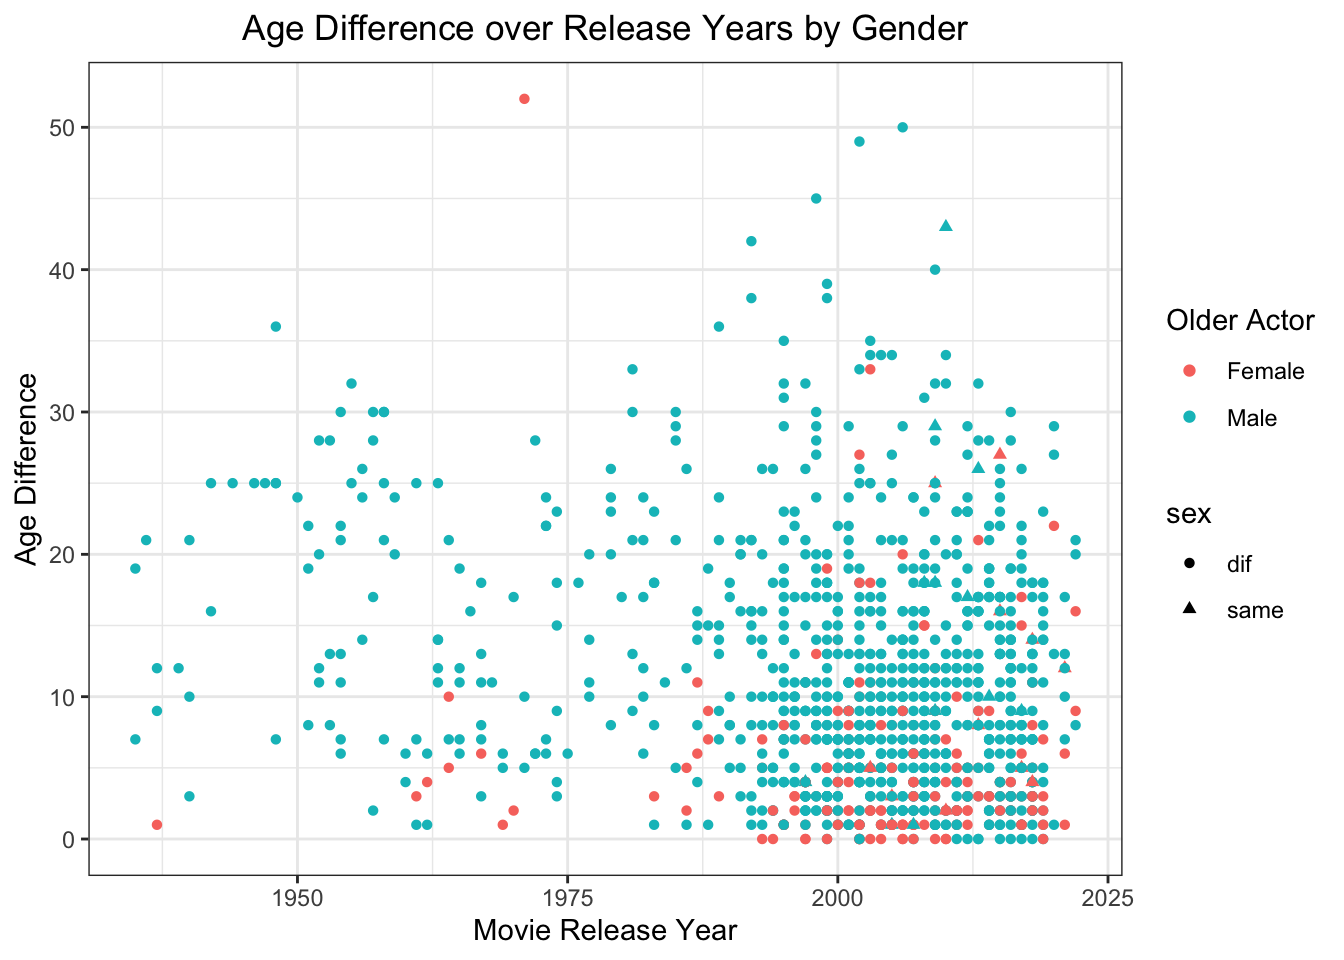
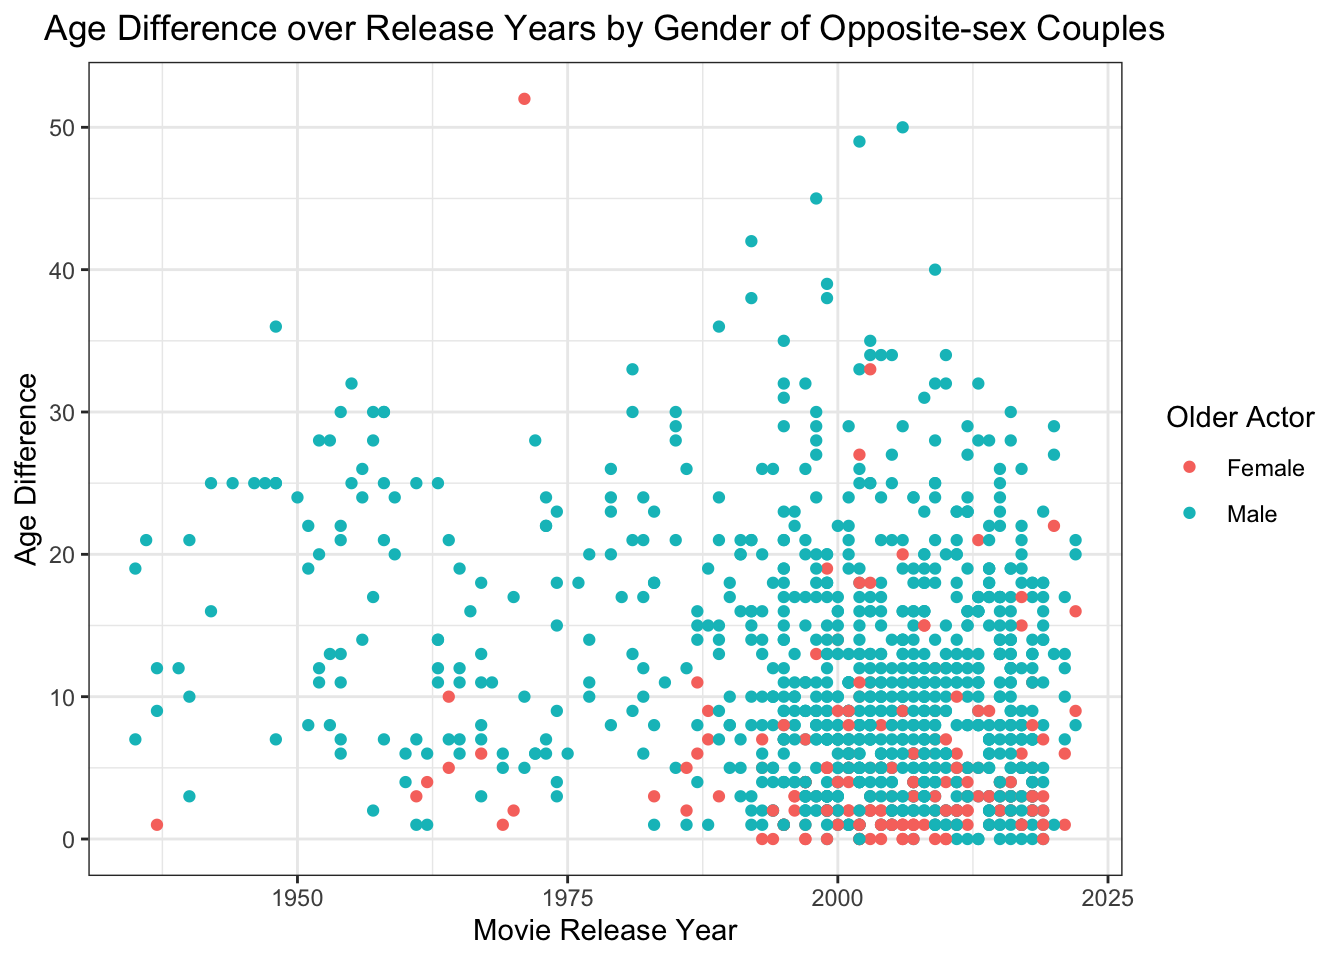
Working on tidyTues

diff --git a/docs/tidytuesday_exercise.html b/docs/tidytuesday_exercise.html
@@ -217,7 +217,8 @@ code span.wa { color: #60a0b0; font-weight: bold; font-style: italic; } /* Warni
 <div class="sourceCode cell-code" id="cb1"><pre class="sourceCode r code-with-copy"><code class="sourceCode r"><span id="cb1-1"><a href="#cb1-1" aria-hidden="true" tabindex="-1"></a><span class="fu">library</span>(tidyverse)</span>
 <span id="cb1-2"><a href="#cb1-2" aria-hidden="true" tabindex="-1"></a><span class="fu">library</span>(here)</span>
 <span id="cb1-3"><a href="#cb1-3" aria-hidden="true" tabindex="-1"></a><span class="fu">library</span>(tidytuesdayR)</span>
-<span id="cb1-4"><a href="#cb1-4" aria-hidden="true" tabindex="-1"></a><span class="fu">library</span>(lubridate)</span></code><button title="Copy to Clipboard" class="code-copy-button"><i class="bi"></i></button></pre></div>
+<span id="cb1-4"><a href="#cb1-4" aria-hidden="true" tabindex="-1"></a><span class="fu">library</span>(lubridate)</span>
+<span id="cb1-5"><a href="#cb1-5" aria-hidden="true" tabindex="-1"></a><span class="fu">library</span>(skimr)</span></code><button title="Copy to Clipboard" class="code-copy-button"><i class="bi"></i></button></pre></div>
 </div>
 </section>
 <section id="the-data" class="level2">
@@ -289,8 +290,8 @@ This dataset seems to be fairly clean, with consistent entries for each variable
 </section>
 <section id="analysis-ideas" class="level2">
 <h2 class="anchored" data-anchor-id="analysis-ideas">Analysis Ideas</h2>
-<section id="how-has-the-age-gap-changesd-over-the-years" class="level4">
-<h4 class="anchored" data-anchor-id="how-has-the-age-gap-changesd-over-the-years">1. How has the age gap changesd over the years?</h4>
+<section id="how-has-the-age-gap-changed-over-the-years" class="level4">
+<h4 class="anchored" data-anchor-id="how-has-the-age-gap-changed-over-the-years">1. How has the age gap changed over the years?</h4>
 </section>
 <section id="what-is-the-most-common-age-differnce" class="level4">
 <h4 class="anchored" data-anchor-id="what-is-the-most-common-age-differnce">2. What is the most common age differnce?</h4>
@@ -330,11 +331,20 @@ This dataset seems to be fairly clean, with consistent entries for each variable
 <span id="cb11-3"><a href="#cb11-3" aria-hidden="true" tabindex="-1"></a>  <span class="fu">geom_line</span>(</span>
 <span id="cb11-4"><a href="#cb11-4" aria-hidden="true" tabindex="-1"></a>    <span class="fu">aes</span>(</span>
 <span id="cb11-5"><a href="#cb11-5" aria-hidden="true" tabindex="-1"></a>      <span class="at">x =</span> release_year,</span>
-<span id="cb11-6"><a href="#cb11-6" aria-hidden="true" tabindex="-1"></a>      <span class="at">y =</span> age_difference))<span class="sc">+</span></span>
-<span id="cb11-7"><a href="#cb11-7" aria-hidden="true" tabindex="-1"></a>  <span class="fu">geom_point</span>(</span>
-<span id="cb11-8"><a href="#cb11-8" aria-hidden="true" tabindex="-1"></a>    <span class="fu">aes</span>(</span>
-<span id="cb11-9"><a href="#cb11-9" aria-hidden="true" tabindex="-1"></a>      <span class="at">x =</span> release_year,</span>
-<span id="cb11-10"><a href="#cb11-10" aria-hidden="true" tabindex="-1"></a>      <span class="at">y =</span> age_difference))</span></code><button title="Copy to Clipboard" class="code-copy-button"><i class="bi"></i></button></pre></div>
+<span id="cb11-6"><a href="#cb11-6" aria-hidden="true" tabindex="-1"></a>      <span class="at">y =</span> age_difference),</span>
+<span id="cb11-7"><a href="#cb11-7" aria-hidden="true" tabindex="-1"></a>    <span class="at">color =</span> <span class="st">"darkgreen"</span>)<span class="sc">+</span></span>
+<span id="cb11-8"><a href="#cb11-8" aria-hidden="true" tabindex="-1"></a>  <span class="fu">geom_point</span>(</span>
+<span id="cb11-9"><a href="#cb11-9" aria-hidden="true" tabindex="-1"></a>    <span class="fu">aes</span>(</span>
+<span id="cb11-10"><a href="#cb11-10" aria-hidden="true" tabindex="-1"></a>      <span class="at">x =</span> release_year,</span>
+<span id="cb11-11"><a href="#cb11-11" aria-hidden="true" tabindex="-1"></a>      <span class="at">y =</span> age_difference),</span>
+<span id="cb11-12"><a href="#cb11-12" aria-hidden="true" tabindex="-1"></a>    <span class="at">color =</span> <span class="st">"darkgreen"</span>)<span class="sc">+</span></span>
+<span id="cb11-13"><a href="#cb11-13" aria-hidden="true" tabindex="-1"></a>  <span class="fu">theme_bw</span>()<span class="sc">+</span></span>
+<span id="cb11-14"><a href="#cb11-14" aria-hidden="true" tabindex="-1"></a>  <span class="fu">labs</span>(</span>
+<span id="cb11-15"><a href="#cb11-15" aria-hidden="true" tabindex="-1"></a>    <span class="at">x =</span> <span class="st">"Release Year"</span>,</span>
+<span id="cb11-16"><a href="#cb11-16" aria-hidden="true" tabindex="-1"></a>    <span class="at">y =</span> <span class="st">"Age Gap"</span>,</span>
+<span id="cb11-17"><a href="#cb11-17" aria-hidden="true" tabindex="-1"></a>    <span class="at">title =</span> <span class="st">"Age gaps in movies from 1935-2022"</span>) <span class="sc">+</span></span>
+<span id="cb11-18"><a href="#cb11-18" aria-hidden="true" tabindex="-1"></a>  <span class="fu">theme</span>(</span>
+<span id="cb11-19"><a href="#cb11-19" aria-hidden="true" tabindex="-1"></a>    <span class="at">plot.title =</span> <span class="fu">element_text</span>(<span class="at">hjust =</span> <span class="fl">0.5</span>))</span></code><button title="Copy to Clipboard" class="code-copy-button"><i class="bi"></i></button></pre></div>
 <div class="cell-output-display">
 <p><img src="tidytuesday_exercise_files/figure-html/unnamed-chunk-6-1.png" class="img-fluid" width="672"></p>
 </div>
@@ -422,8 +432,8 @@ This dataset seems to be fairly clean, with consistent entries for each variable
 </div>
 <p>A few things to note here. (1) It looks like older female couples become more prevalent around the 1980s. (2) Despite a higher incidence of older female couples, the age gap is relatively lower than that of older male couples. (3) Some of the movies include same-sex couples, which can make this graph misleading. In the case where the couple is woman-woman, older female will show up regardless.</p>
 </section>
-<section id="make-new-columns-and-dataframes-for-same-and-opposute-sex-couples" class="level3">
-<h3 class="anchored" data-anchor-id="make-new-columns-and-dataframes-for-same-and-opposute-sex-couples">Make new columns and dataframes for same and opposute sex couples</h3>
+<section id="make-new-columns-and-dataframes-for-same-and-opposite-sex-couples" class="level3">
+<h3 class="anchored" data-anchor-id="make-new-columns-and-dataframes-for-same-and-opposite-sex-couples">Make new columns and dataframes for same and opposite sex couples</h3>
 <div class="cell">
 <div class="sourceCode cell-code" id="cb17"><pre class="sourceCode r code-with-copy"><code class="sourceCode r"><span id="cb17-1"><a href="#cb17-1" aria-hidden="true" tabindex="-1"></a>age_gaps3<span class="ot">&lt;-</span> age_gaps2 <span class="sc">%&gt;%</span></span>
 <span id="cb17-2"><a href="#cb17-2" aria-hidden="true" tabindex="-1"></a>  <span class="fu">mutate</span>(<span class="at">sex =</span> <span class="fu">case_when</span>(</span>
@@ -443,68 +453,106 @@ This dataset seems to be fairly clean, with consistent entries for each variable
 <span id="cb17-16"><a href="#cb17-16" aria-hidden="true" tabindex="-1"></a>age_opp<span class="ot">&lt;-</span> age_gaps3 <span class="sc">%&gt;%</span></span>
 <span id="cb17-17"><a href="#cb17-17" aria-hidden="true" tabindex="-1"></a>  <span class="fu">filter</span>(sex <span class="sc">%in%</span> <span class="st">"dif"</span>)</span></code><button title="Copy to Clipboard" class="code-copy-button"><i class="bi"></i></button></pre></div>
 </div>
-</section>
-<section id="opposite-sex-couples" class="level3">
-<h3 class="anchored" data-anchor-id="opposite-sex-couples">Opposite sex couples</h3>
 <div class="cell">
-<div class="sourceCode cell-code" id="cb18"><pre class="sourceCode r code-with-copy"><code class="sourceCode r"><span id="cb18-1"><a href="#cb18-1" aria-hidden="true" tabindex="-1"></a>age_opp <span class="sc">%&gt;%</span> <span class="fu">ggplot</span>() <span class="sc">+</span> <span class="fu">geom_point</span>(</span>
-<span id="cb18-2"><a href="#cb18-2" aria-hidden="true" tabindex="-1"></a>  <span class="fu">aes</span>(</span>
-<span id="cb18-3"><a href="#cb18-3" aria-hidden="true" tabindex="-1"></a>    <span class="at">x =</span> release_year,</span>
-<span id="cb18-4"><a href="#cb18-4" aria-hidden="true" tabindex="-1"></a>    <span class="at">y =</span> age_difference,</span>
-<span id="cb18-5"><a href="#cb18-5" aria-hidden="true" tabindex="-1"></a>    <span class="at">color =</span> older))<span class="sc">+</span></span>
-<span id="cb18-6"><a href="#cb18-6" aria-hidden="true" tabindex="-1"></a>  <span class="fu">theme_bw</span>()<span class="sc">+</span></span>
-<span id="cb18-7"><a href="#cb18-7" aria-hidden="true" tabindex="-1"></a>  <span class="fu">labs</span>(</span>
-<span id="cb18-8"><a href="#cb18-8" aria-hidden="true" tabindex="-1"></a>    <span class="at">x =</span> <span class="st">"Movie Release Year"</span>,</span>
-<span id="cb18-9"><a href="#cb18-9" aria-hidden="true" tabindex="-1"></a>    <span class="at">y =</span> <span class="st">"Age Difference"</span>,</span>
-<span id="cb18-10"><a href="#cb18-10" aria-hidden="true" tabindex="-1"></a>    <span class="at">title =</span> <span class="st">"Age Difference over Release Years by Gender of Opposite-sex Couples"</span>,</span>
-<span id="cb18-11"><a href="#cb18-11" aria-hidden="true" tabindex="-1"></a>    <span class="at">color =</span> <span class="st">"Older Actor"</span>)<span class="sc">+</span></span>
-<span id="cb18-12"><a href="#cb18-12" aria-hidden="true" tabindex="-1"></a>    <span class="fu">theme</span>(</span>
-<span id="cb18-13"><a href="#cb18-13" aria-hidden="true" tabindex="-1"></a>      <span class="at">plot.title =</span> <span class="fu">element_text</span>(<span class="at">hjust =</span> <span class="fl">0.5</span>))</span></code><button title="Copy to Clipboard" class="code-copy-button"><i class="bi"></i></button></pre></div>
+<div class="sourceCode cell-code" id="cb18"><pre class="sourceCode r code-with-copy"><code class="sourceCode r"><span id="cb18-1"><a href="#cb18-1" aria-hidden="true" tabindex="-1"></a><span class="fu">glimpse</span>(age_same)</span></code><button title="Copy to Clipboard" class="code-copy-button"><i class="bi"></i></button></pre></div>
+<div class="cell-output cell-output-stdout">
+<pre><code>Rows: 23
+Columns: 15
+$ movie_name         &lt;chr&gt; "Beginners", "A Single Man", "Freeheld", "Behind th…
+$ release_year       &lt;dbl&gt; 2010, 2009, 2015, 2013, 2009, 2009, 2008, 2012, 201…
+$ director           &lt;chr&gt; "Mike Mills", "Tom Ford", "Peter Sollett", "Steven …
+$ age_difference     &lt;dbl&gt; 43, 29, 27, 26, 25, 18, 18, 17, 16, 14, 12, 10, 9, …
+$ couple_number      &lt;dbl&gt; 1, 1, 1, 1, 1, 2, 1, 1, 1, 1, 1, 1, 1, 1, 1, 1, 2, …
+$ actor_1_name       &lt;chr&gt; "Christopher Plummer", "Colin Firth", "Julianne Moo…
+$ actor_2_name       &lt;chr&gt; "Goran Visnjic", "Nicholas Hoult", "Elliot Page", "…
+$ character_1_gender &lt;chr&gt; "man", "man", "woman", "man", "woman", "man", "man"…
+$ character_2_gender &lt;chr&gt; "man", "man", "woman", "man", "woman", "man", "man"…
+$ actor_1_birthdate  &lt;date&gt; 1929-12-13, 1960-09-10, 1960-12-03, 1944-09-25, 19…
+$ actor_2_birthdate  &lt;date&gt; 1972-09-09, 1989-12-07, 1987-02-21, 1970-10-08, 19…
+$ actor_1_age        &lt;dbl&gt; 81, 49, 55, 69, 49, 49, 48, 54, 46, 44, 52, 47, 31,…
+$ actor_2_age        &lt;dbl&gt; 38, 20, 28, 43, 24, 31, 30, 37, 30, 30, 40, 37, 22,…
+$ older              &lt;chr&gt; "Male", "Male", "Female", "Male", "Female", "Male",…
+$ sex                &lt;chr&gt; "same", "same", "same", "same", "same", "same", "sa…</code></pre>
+</div>
+</div>
+<p>From this, we can see that 23 entereies are same-sex couples.</p>
+</section>
+<section id="plot-opposite-sex-couples" class="level3">
+<h3 class="anchored" data-anchor-id="plot-opposite-sex-couples">Plot Opposite sex couples</h3>
+<div class="cell">
+<div class="sourceCode cell-code" id="cb20"><pre class="sourceCode r code-with-copy"><code class="sourceCode r"><span id="cb20-1"><a href="#cb20-1" aria-hidden="true" tabindex="-1"></a>age_opp <span class="sc">%&gt;%</span> <span class="fu">ggplot</span>() <span class="sc">+</span> <span class="fu">geom_point</span>(</span>
+<span id="cb20-2"><a href="#cb20-2" aria-hidden="true" tabindex="-1"></a>  <span class="fu">aes</span>(</span>
+<span id="cb20-3"><a href="#cb20-3" aria-hidden="true" tabindex="-1"></a>    <span class="at">x =</span> release_year,</span>
+<span id="cb20-4"><a href="#cb20-4" aria-hidden="true" tabindex="-1"></a>    <span class="at">y =</span> age_difference,</span>
+<span id="cb20-5"><a href="#cb20-5" aria-hidden="true" tabindex="-1"></a>    <span class="at">color =</span> older))<span class="sc">+</span></span>
+<span id="cb20-6"><a href="#cb20-6" aria-hidden="true" tabindex="-1"></a>  <span class="fu">theme_bw</span>()<span class="sc">+</span></span>
+<span id="cb20-7"><a href="#cb20-7" aria-hidden="true" tabindex="-1"></a>  <span class="fu">labs</span>(</span>
+<span id="cb20-8"><a href="#cb20-8" aria-hidden="true" tabindex="-1"></a>    <span class="at">x =</span> <span class="st">"Movie Release Year"</span>,</span>
+<span id="cb20-9"><a href="#cb20-9" aria-hidden="true" tabindex="-1"></a>    <span class="at">y =</span> <span class="st">"Age Difference"</span>,</span>
+<span id="cb20-10"><a href="#cb20-10" aria-hidden="true" tabindex="-1"></a>    <span class="at">title =</span> <span class="st">"Age Difference over Release Years by Gender of Opposite-sex Couples"</span>,</span>
+<span id="cb20-11"><a href="#cb20-11" aria-hidden="true" tabindex="-1"></a>    <span class="at">color =</span> <span class="st">"Older Actor"</span>)<span class="sc">+</span></span>
+<span id="cb20-12"><a href="#cb20-12" aria-hidden="true" tabindex="-1"></a>    <span class="fu">theme</span>(</span>
+<span id="cb20-13"><a href="#cb20-13" aria-hidden="true" tabindex="-1"></a>      <span class="at">plot.title =</span> <span class="fu">element_text</span>(<span class="at">hjust =</span> <span class="fl">0.5</span>))</span></code><button title="Copy to Clipboard" class="code-copy-button"><i class="bi"></i></button></pre></div>
 <div class="cell-output-display">
-<p><img src="tidytuesday_exercise_files/figure-html/unnamed-chunk-12-1.png" class="img-fluid" width="672"></p>
+<p><img src="tidytuesday_exercise_files/figure-html/unnamed-chunk-13-1.png" class="img-fluid" width="672"></p>
 </div>
 </div>
+<p>This is not drastically different from the previous graph. But let’s look at everything together.</p>
 </section>
 <section id="plot-everything-together" class="level3">
 <h3 class="anchored" data-anchor-id="plot-everything-together">Plot everything together</h3>
 <div class="cell">
-<div class="sourceCode cell-code" id="cb19"><pre class="sourceCode r code-with-copy"><code class="sourceCode r"><span id="cb19-1"><a href="#cb19-1" aria-hidden="true" tabindex="-1"></a>age_gaps3 <span class="sc">%&gt;%</span> <span class="fu">ggplot</span>() <span class="sc">+</span> <span class="fu">geom_point</span>(</span>
-<span id="cb19-2"><a href="#cb19-2" aria-hidden="true" tabindex="-1"></a>  <span class="fu">aes</span>(</span>
-<span id="cb19-3"><a href="#cb19-3" aria-hidden="true" tabindex="-1"></a>    <span class="at">x =</span> release_year,</span>
-<span id="cb19-4"><a href="#cb19-4" aria-hidden="true" tabindex="-1"></a>    <span class="at">y =</span> age_difference,</span>
-<span id="cb19-5"><a href="#cb19-5" aria-hidden="true" tabindex="-1"></a>    <span class="at">color =</span> older,</span>
-<span id="cb19-6"><a href="#cb19-6" aria-hidden="true" tabindex="-1"></a>    <span class="at">shape =</span> sex))<span class="sc">+</span></span>
-<span id="cb19-7"><a href="#cb19-7" aria-hidden="true" tabindex="-1"></a>  <span class="fu">theme_bw</span>()<span class="sc">+</span></span>
-<span id="cb19-8"><a href="#cb19-8" aria-hidden="true" tabindex="-1"></a>  <span class="fu">labs</span>(</span>
-<span id="cb19-9"><a href="#cb19-9" aria-hidden="true" tabindex="-1"></a>    <span class="at">x =</span> <span class="st">"Movie Release Year"</span>,</span>
-<span id="cb19-10"><a href="#cb19-10" aria-hidden="true" tabindex="-1"></a>    <span class="at">y =</span> <span class="st">"Age Difference"</span>,</span>
-<span id="cb19-11"><a href="#cb19-11" aria-hidden="true" tabindex="-1"></a>    <span class="at">title =</span> <span class="st">"Age Difference over Release Years by Gender"</span>,</span>
-<span id="cb19-12"><a href="#cb19-12" aria-hidden="true" tabindex="-1"></a>    <span class="at">color =</span> <span class="st">"Older Actor"</span>)<span class="sc">+</span></span>
-<span id="cb19-13"><a href="#cb19-13" aria-hidden="true" tabindex="-1"></a>    <span class="fu">theme</span>(</span>
-<span id="cb19-14"><a href="#cb19-14" aria-hidden="true" tabindex="-1"></a>      <span class="at">plot.title =</span> <span class="fu">element_text</span>(<span class="at">hjust =</span> <span class="fl">0.5</span>))</span></code><button title="Copy to Clipboard" class="code-copy-button"><i class="bi"></i></button></pre></div>
+<div class="sourceCode cell-code" id="cb21"><pre class="sourceCode r code-with-copy"><code class="sourceCode r"><span id="cb21-1"><a href="#cb21-1" aria-hidden="true" tabindex="-1"></a>age_gaps3 <span class="sc">%&gt;%</span> <span class="fu">ggplot</span>() <span class="sc">+</span> <span class="fu">geom_point</span>(</span>
+<span id="cb21-2"><a href="#cb21-2" aria-hidden="true" tabindex="-1"></a>  <span class="fu">aes</span>(</span>
+<span id="cb21-3"><a href="#cb21-3" aria-hidden="true" tabindex="-1"></a>    <span class="at">x =</span> release_year,</span>
+<span id="cb21-4"><a href="#cb21-4" aria-hidden="true" tabindex="-1"></a>    <span class="at">y =</span> age_difference,</span>
+<span id="cb21-5"><a href="#cb21-5" aria-hidden="true" tabindex="-1"></a>    <span class="at">color =</span> older,</span>
+<span id="cb21-6"><a href="#cb21-6" aria-hidden="true" tabindex="-1"></a>    <span class="at">shape =</span> sex))<span class="sc">+</span></span>
+<span id="cb21-7"><a href="#cb21-7" aria-hidden="true" tabindex="-1"></a>  <span class="fu">theme_bw</span>()<span class="sc">+</span></span>
+<span id="cb21-8"><a href="#cb21-8" aria-hidden="true" tabindex="-1"></a>  <span class="fu">labs</span>(</span>
+<span id="cb21-9"><a href="#cb21-9" aria-hidden="true" tabindex="-1"></a>    <span class="at">x =</span> <span class="st">"Movie Release Year"</span>,</span>
+<span id="cb21-10"><a href="#cb21-10" aria-hidden="true" tabindex="-1"></a>    <span class="at">y =</span> <span class="st">"Age Difference"</span>,</span>
+<span id="cb21-11"><a href="#cb21-11" aria-hidden="true" tabindex="-1"></a>    <span class="at">title =</span> <span class="st">"Age Difference over Release Years by Gender"</span>,</span>
+<span id="cb21-12"><a href="#cb21-12" aria-hidden="true" tabindex="-1"></a>    <span class="at">color =</span> <span class="st">"Older Actor"</span>)<span class="sc">+</span></span>
+<span id="cb21-13"><a href="#cb21-13" aria-hidden="true" tabindex="-1"></a>    <span class="fu">theme</span>(</span>
+<span id="cb21-14"><a href="#cb21-14" aria-hidden="true" tabindex="-1"></a>      <span class="at">plot.title =</span> <span class="fu">element_text</span>(<span class="at">hjust =</span> <span class="fl">0.5</span>))</span></code><button title="Copy to Clipboard" class="code-copy-button"><i class="bi"></i></button></pre></div>
 <div class="cell-output-display">
-<p><img src="tidytuesday_exercise_files/figure-html/unnamed-chunk-13-1.png" class="img-fluid" width="672"></p>
+<p><img src="tidytuesday_exercise_files/figure-html/unnamed-chunk-14-1.png" class="img-fluid" width="672"></p>
 </div>
-<div class="sourceCode cell-code" id="cb20"><pre class="sourceCode r code-with-copy"><code class="sourceCode r"><span id="cb20-1"><a href="#cb20-1" aria-hidden="true" tabindex="-1"></a> <span class="co"># scale_color_manual(values = c("Male" = "grey","Female" = "#F88379"))+</span></span>
-<span id="cb20-2"><a href="#cb20-2" aria-hidden="true" tabindex="-1"></a> <span class="co"># scale_shape_manual(values = c("dif" = 2, "same" = 20))</span></span></code><button title="Copy to Clipboard" class="code-copy-button"><i class="bi"></i></button></pre></div>
+<div class="sourceCode cell-code" id="cb22"><pre class="sourceCode r code-with-copy"><code class="sourceCode r"><span id="cb22-1"><a href="#cb22-1" aria-hidden="true" tabindex="-1"></a> <span class="co"># scale_color_manual(values = c("Male" = "grey","Female" = "#F88379"))+</span></span>
+<span id="cb22-2"><a href="#cb22-2" aria-hidden="true" tabindex="-1"></a> <span class="co"># scale_shape_manual(values = c("dif" = 2, "same" = 20))</span></span></code><button title="Copy to Clipboard" class="code-copy-button"><i class="bi"></i></button></pre></div>
 </div>
 </section>
 </section>
 <section id="do-we-see-a-greater-age-gap-between-same-sex-or-opoosite-sex-couples" class="level2">
 <h2 class="anchored" data-anchor-id="do-we-see-a-greater-age-gap-between-same-sex-or-opoosite-sex-couples">4. Do we see a greater age gap between same-sex or opoosite-sex couples?</h2>
 <div class="cell">
-<div class="sourceCode cell-code" id="cb21"><pre class="sourceCode r code-with-copy"><code class="sourceCode r"><span id="cb21-1"><a href="#cb21-1" aria-hidden="true" tabindex="-1"></a>age_gaps3 <span class="sc">%&gt;%</span> <span class="fu">ggplot</span>() <span class="sc">+</span> <span class="fu">geom_boxplot</span>(</span>
-<span id="cb21-2"><a href="#cb21-2" aria-hidden="true" tabindex="-1"></a>  <span class="fu">aes</span>(</span>
-<span id="cb21-3"><a href="#cb21-3" aria-hidden="true" tabindex="-1"></a>    <span class="at">x =</span> sex,</span>
-<span id="cb21-4"><a href="#cb21-4" aria-hidden="true" tabindex="-1"></a>    <span class="at">y =</span> age_difference,</span>
-<span id="cb21-5"><a href="#cb21-5" aria-hidden="true" tabindex="-1"></a>  <span class="at">color =</span> sex))</span></code><button title="Copy to Clipboard" class="code-copy-button"><i class="bi"></i></button></pre></div>
+<div class="sourceCode cell-code" id="cb23"><pre class="sourceCode r code-with-copy"><code class="sourceCode r"><span id="cb23-1"><a href="#cb23-1" aria-hidden="true" tabindex="-1"></a>age_gaps3 <span class="sc">%&gt;%</span> <span class="fu">ggplot</span>() <span class="sc">+</span> <span class="fu">geom_boxplot</span>(</span>
+<span id="cb23-2"><a href="#cb23-2" aria-hidden="true" tabindex="-1"></a>  <span class="fu">aes</span>(</span>
+<span id="cb23-3"><a href="#cb23-3" aria-hidden="true" tabindex="-1"></a>    <span class="at">x =</span> sex,</span>
+<span id="cb23-4"><a href="#cb23-4" aria-hidden="true" tabindex="-1"></a>    <span class="at">y =</span> age_difference,</span>
+<span id="cb23-5"><a href="#cb23-5" aria-hidden="true" tabindex="-1"></a>  <span class="at">color =</span> sex))</span></code><button title="Copy to Clipboard" class="code-copy-button"><i class="bi"></i></button></pre></div>
 <div class="cell-output-display">
-<p><img src="tidytuesday_exercise_files/figure-html/unnamed-chunk-14-1.png" class="img-fluid" width="672"></p>
+<p><img src="tidytuesday_exercise_files/figure-html/unnamed-chunk-15-1.png" class="img-fluid" width="672"></p>
 </div>
 </div>
-<p>n = small for same though</p>
+<p>On average, there is a greater age gap in same sex couples, but it is important to note that there are only 23 entries for same-sex couples and 1132 entereies for opposite sex couples.</p>
+<section id="same-sex-prevalance-in-film" class="level3">
+<h3 class="anchored" data-anchor-id="same-sex-prevalance-in-film">Same-sex prevalance in film</h3>
+<div class="cell">
+<div class="sourceCode cell-code" id="cb24"><pre class="sourceCode r code-with-copy"><code class="sourceCode r"><span id="cb24-1"><a href="#cb24-1" aria-hidden="true" tabindex="-1"></a>age_gaps3 <span class="sc">%&gt;%</span> <span class="fu">ggplot</span>() <span class="sc">+</span> <span class="fu">geom_point</span>(</span>
+<span id="cb24-2"><a href="#cb24-2" aria-hidden="true" tabindex="-1"></a>  <span class="fu">aes</span>(</span>
+<span id="cb24-3"><a href="#cb24-3" aria-hidden="true" tabindex="-1"></a>    <span class="at">x =</span> release_year,</span>
+<span id="cb24-4"><a href="#cb24-4" aria-hidden="true" tabindex="-1"></a>    <span class="at">y =</span> age_difference,</span>
+<span id="cb24-5"><a href="#cb24-5" aria-hidden="true" tabindex="-1"></a>    <span class="at">color =</span> sex))<span class="sc">+</span></span>
+<span id="cb24-6"><a href="#cb24-6" aria-hidden="true" tabindex="-1"></a>  <span class="fu">scale_color_manual</span>(<span class="at">values =</span> <span class="fu">c</span>(<span class="st">"dif"</span> <span class="ot">=</span> <span class="st">"grey"</span>, <span class="st">"same"</span> <span class="ot">=</span> <span class="st">"darkblue"</span>))</span></code><button title="Copy to Clipboard" class="code-copy-button"><i class="bi"></i></button></pre></div>
+<div class="cell-output-display">
+<p><img src="tidytuesday_exercise_files/figure-html/unnamed-chunk-16-1.png" class="img-fluid" width="672"></p>
+</div>
+</div>
 
 
+</section>
 </section>
 
 </main> <!-- /main -->
